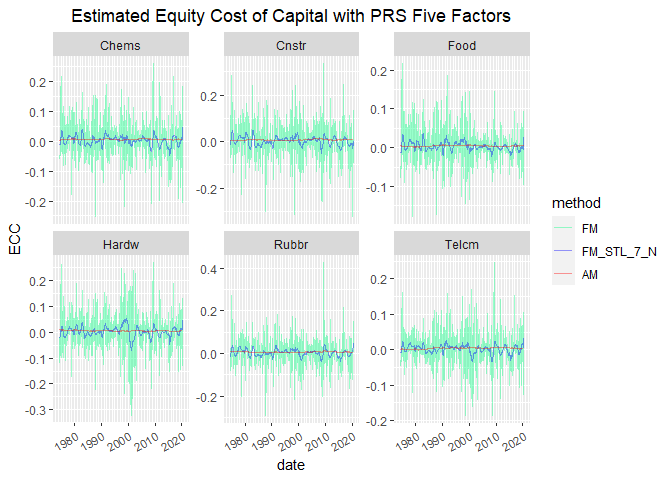
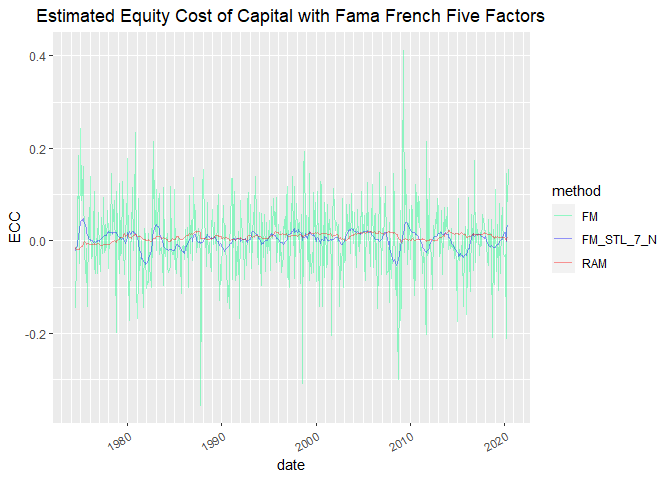
Add an ECC plot with RAM

diff --git a/ECC.md b/ECC.md
@@ -17859,7 +17859,7 @@ Arithmetic Mean and the Geometric Mean.
 Here we would compare the Estimated ECC from FM method and Filtered FM
 method:
 
-![](ECC_files/figure-gfm/unnamed-chunk-40-1.png)<!-- -->![](ECC_files/figure-gfm/unnamed-chunk-40-2.png)<!-- -->
+![](ECC_files/figure-gfm/unnamed-chunk-40-1.png)<!-- -->![](ECC_files/figure-gfm/unnamed-chunk-40-2.png)<!-- -->![](ECC_files/figure-gfm/unnamed-chunk-40-3.png)<!-- -->
 
 We also performed a KS test to test the FM ECC and STL FM ECC for
 different sectors. It seems that the distributions are different from FM
